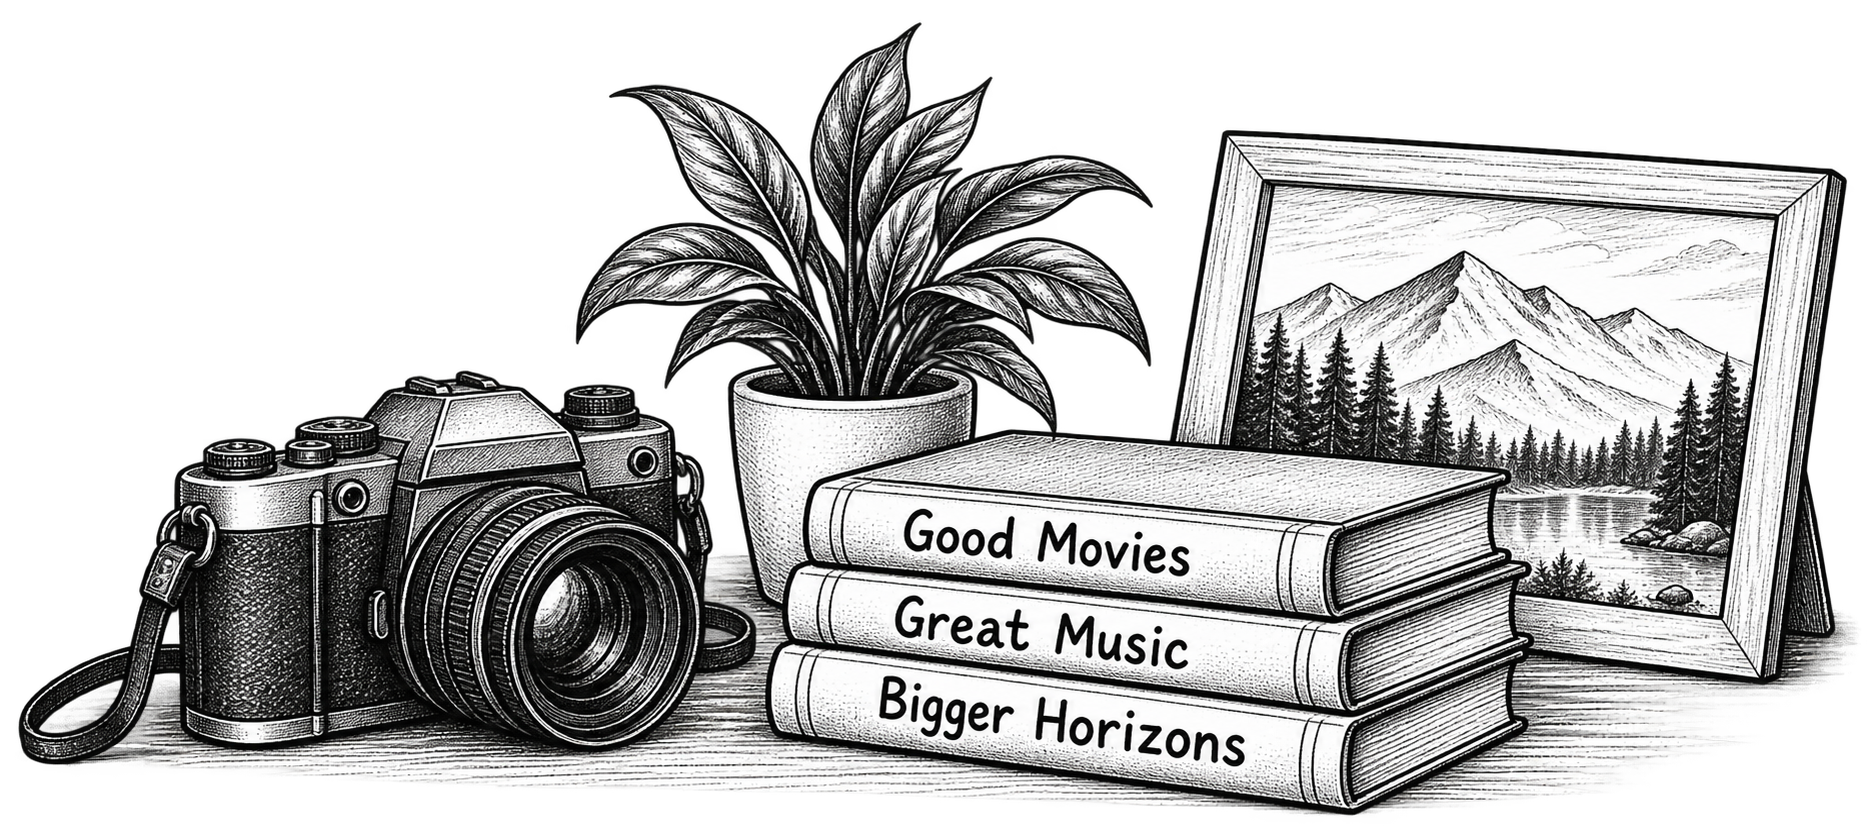
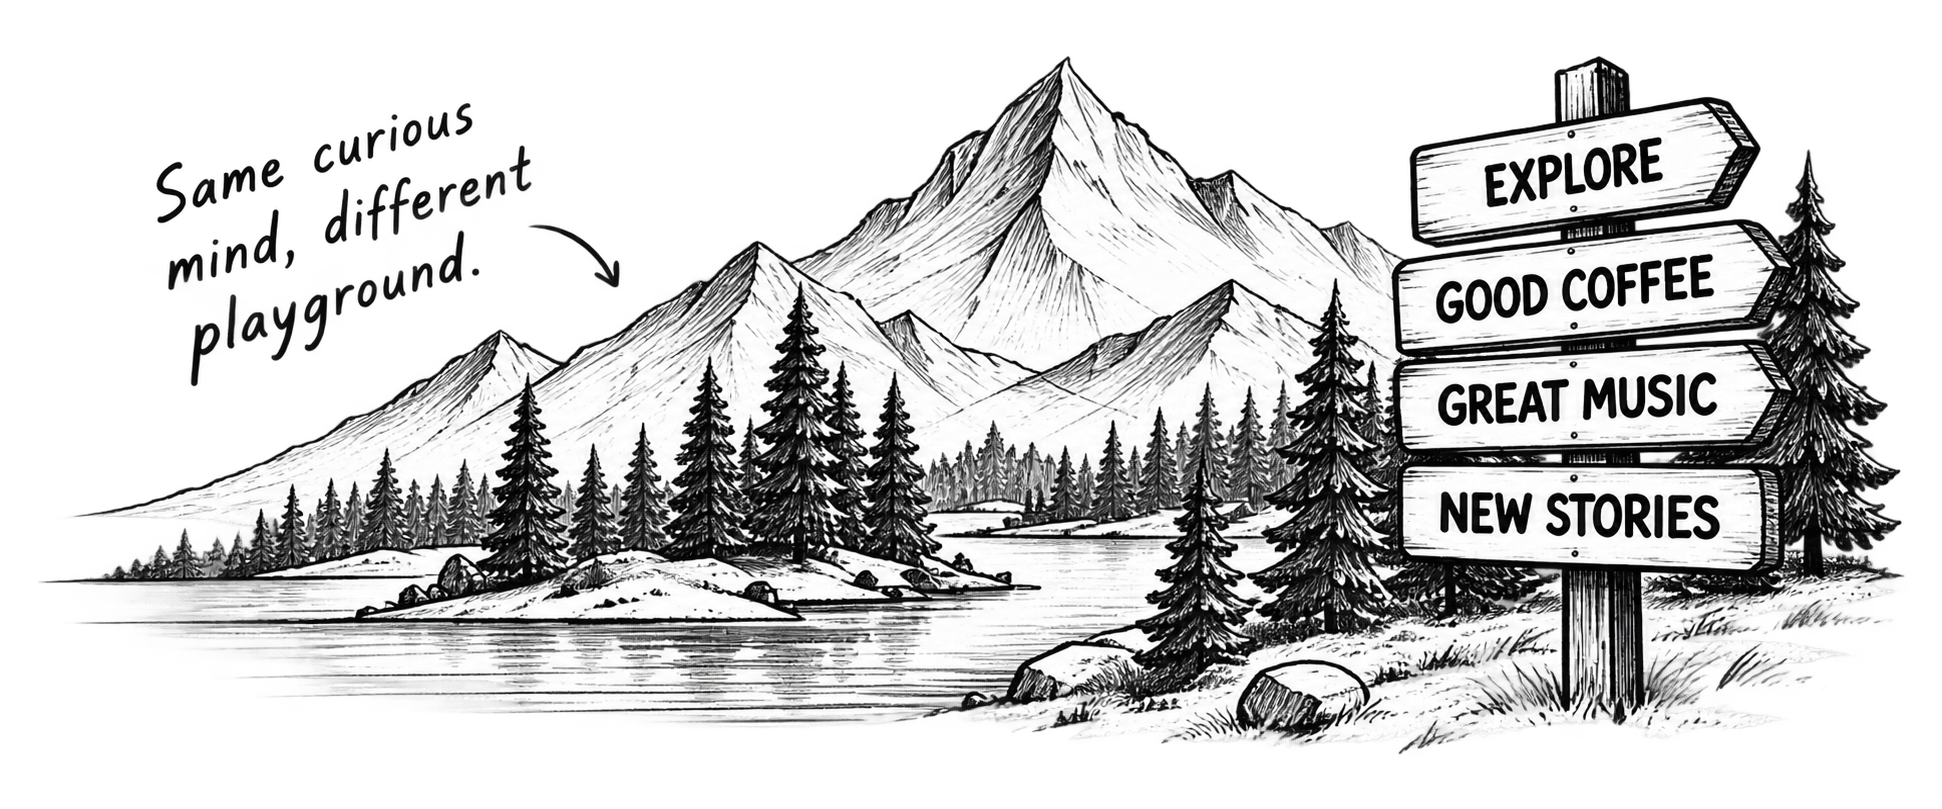
refactor: add hobbies section with grid layout and responsive styling; include new images for hobbies

diff --git a/src/app/about/page.tsx b/src/app/about/page.tsx
@@ -56,6 +56,45 @@ const careerMilestones = [
   },
 ];
 
+const hobbies = [
+  {
+    title: "Coffee",
+    caption: "A daily ritual.",
+    description:
+      "I love coffee — the ritual, the craft, and the small moments of calm it brings. From experimenting with different beans and brewing methods to finding the perfect spot, coffee helps me slow down, reset, and think more clearly.",
+    image: "/images/coffee.png",
+    width: 1536,
+    height: 1024,
+  },
+  {
+    title: "Rock & Metal",
+    caption: "Fuel for the mind.",
+    description:
+      "High-energy music, especially rock and metal, keeps me going. It clears my mind, boosts my mood, and helps me focus — whether I’m working, working out, or just need a mental reset.",
+    image: "/images/music.png",
+    width: 1536,
+    height: 1024,
+  },
+  {
+    title: "Games",
+    caption: "Play. Explore. Unwind.",
+    description:
+      "Games are my way to relax, explore new worlds, and experience great stories. Whether it’s competitive shooters, immersive single-player games, or just a casual session with friends, they give me a break and a different perspective.",
+    image: "/images/game.png",
+    width: 1536,
+    height: 1024,
+  },
+  {
+    title: "Adrenaline & Adventure",
+    caption: "Step outside.",
+    description:
+      "I’m always up for activities that get the adrenaline flowing — escape rooms, hiking, bungee jumping, or trying new experiences. They push me out of my comfort zone, help me stay present, and remind me that the best stories often happen outside it.",
+    image: "/images/adrenaline.png",
+    width: 1375,
+    height: 1144,
+  },
+];
+
 export const metadata: Metadata = {
   title: "About",
   description:
@@ -161,27 +200,50 @@ export default function AboutPage() {
           <span className="about-section-heading-line" aria-hidden="true" />
           <h2 id="life-beyond-title">Life beyond code</h2>
         </header>
-        <Image
-          className="life-beyond-illustration"
-          src="/images/hobbies.png"
-          alt="A hand-drawn camera, plant, books about movies and music, and a framed mountain landscape"
-          width={1873}
-          height={840}
-          sizes="(max-width: 800px) calc(100vw - 48px), 58vw"
-        />
-
-        <div className="life-beyond-copy">
-          <p>
-            When I&apos;m not in front of a computer, you&apos;ll probably find me
-            making coffee, watching a good movie, listening to music (techno,
-            house, or rock), or exploring new ideas.
-          </p>
-          <p>
-            I&apos;m also interested in photography, games, and travel. I believe
-            these hobbies help me stay creative and bring fresh perspectives to my
-            work.
-          </p>
+        <div className="life-beyond-intro">
+          <div className="life-beyond-copy">
+            <p>
+              When I&apos;m not in front of a computer, you&apos;ll probably find me
+              making coffee, watching a good movie, listening to music (techno,
+              house, or rock), or exploring new ideas.
+            </p>
+            <p>
+              I&apos;m also interested in photography, games, and travel. I believe
+              these hobbies help me stay creative and bring fresh perspectives to my
+              work.
+            </p>
+          </div>
+          <Image
+            className="life-beyond-illustration"
+            src="/images/hobbies.png"
+            alt="A hand-drawn camera, plant, books about movies and music, and a framed mountain landscape"
+            width={1873}
+            height={840}
+            sizes="(max-width: 800px) calc(100vw - 48px), 58vw"
+          />
         </div>
+        <ul className="hobby-grid">
+          {hobbies.map((hobby, index) => (
+            <li className="hobby-card" key={hobby.title}>
+              <header className="hobby-heading">
+                <span className="hobby-number" aria-hidden="true">
+                  {String(index + 1).padStart(2, "0")}
+                </span>
+                <h3>{hobby.title}</h3>
+                <p>{hobby.caption}</p>
+              </header>
+              <p className="hobby-description">{hobby.description}</p>
+              <Image
+                className={`hobby-illustration${hobby.image === "/images/game.png" ? " hobby-illustration-game" : ""}`}
+                src={hobby.image}
+                alt=""
+                width={hobby.width}
+                height={hobby.height}
+                sizes="(max-width: 800px) 70vw, 390px"
+              />
+            </li>
+          ))}
+        </ul>
       </section>
     </main>
   );

diff --git a/src/app/globals.css b/src/app/globals.css
@@ -795,8 +795,7 @@ a {
   text-wrap: balance;
 }
 
-.career-story-copy p:first-child,
-.life-beyond-copy p:first-child {
+.career-story-copy p:first-child {
   margin-top: 0;
 }
 
@@ -876,11 +875,16 @@ a {
 
 .life-beyond {
   display: grid;
-  grid-template-columns: minmax(0, 1.18fr) minmax(300px, 0.82fr);
-  gap: 7%;
-  align-items: center;
+  gap: 42px;
   margin-top: 112px;
   padding-top: 112px;
+}
+
+.life-beyond-intro {
+  display: grid;
+  grid-template-columns: minmax(300px, 0.82fr) minmax(0, 1.18fr);
+  gap: 7%;
+  align-items: center;
 }
 
 .life-beyond-illustration {
@@ -890,7 +894,7 @@ a {
 }
 
 .life-beyond-copy p {
-  margin: 26px 0 0;
+  margin: 0;
   color: var(--muted);
   font-size: var(--font-size-body-large);
   line-height: 1.62;
@@ -898,6 +902,75 @@ a {
 
 .life-beyond-copy p + p {
   margin-top: 22px;
+}
+
+.hobby-grid {
+  display: grid;
+  grid-template-columns: repeat(2, minmax(0, 1fr));
+  gap: 12px;
+  margin: 0;
+  padding: 0;
+  list-style: none;
+}
+
+.hobby-card {
+  position: relative;
+  isolation: isolate;
+  overflow: hidden;
+  min-height: 350px;
+  padding: 22px;
+  border: 1px solid var(--border);
+  border-radius: 10px;
+  background: rgba(255, 255, 255, 0.35);
+}
+
+.hobby-number {
+  color: var(--accent);
+  font: 600 var(--font-size-caption)/1.4 var(--font-geist-mono);
+}
+
+.hobby-heading h3 {
+  margin: 5px 0 3px;
+  font-size: var(--font-size-title-large);
+  font-weight: 650;
+  line-height: 1.2;
+  letter-spacing: -0.04em;
+}
+
+.hobby-heading p {
+  margin: 0;
+  color: var(--muted);
+  font-size: var(--font-size-body-small);
+}
+
+.hobby-description {
+  width: 38%;
+  margin: 16px 0 0;
+  color: var(--muted);
+  font-size: var(--font-size-ui);
+  line-height: 1.5;
+}
+
+.hobby-illustration {
+  position: absolute;
+  z-index: -1;
+  right: -4%;
+  bottom: 8px;
+  width: 70%;
+  height: calc(100% - 20px);
+  object-fit: contain;
+  object-position: right bottom;
+}
+
+.hobby-card:last-child .hobby-illustration {
+  right: 0;
+  width: 60%;
+}
+
+.hobby-illustration-game {
+  right: 8px;
+  transform: scale(0.9);
+  transform-origin: right bottom;
 }
 
 .personal-values {
@@ -1516,6 +1589,15 @@ a {
     padding-top: 84px;
   }
 
+  .hobby-grid {
+    grid-template-columns: 1fr;
+  }
+
+  .life-beyond-intro {
+    grid-template-columns: 1fr;
+    gap: 48px;
+  }
+
   .life-beyond-illustration {
     width: min(720px, 100%);
     justify-self: center;
@@ -1722,8 +1804,31 @@ a {
     padding-top: 68px;
   }
 
+  .hobby-card {
+    min-height: 330px;
+    padding: 18px;
+  }
+
+  .life-beyond-intro {
+    gap: 38px;
+  }
+
   .life-beyond-copy p {
     font-size: var(--font-size-body);
+  }
+
+  .hobby-heading h3 {
+    font-size: var(--font-size-title);
+  }
+
+  .hobby-description {
+    width: 43%;
+    font-size: var(--font-size-caption);
+  }
+
+  .hobby-illustration {
+    width: 65%;
+    height: calc(100% - 70px);
   }
 
   .page-intro {
